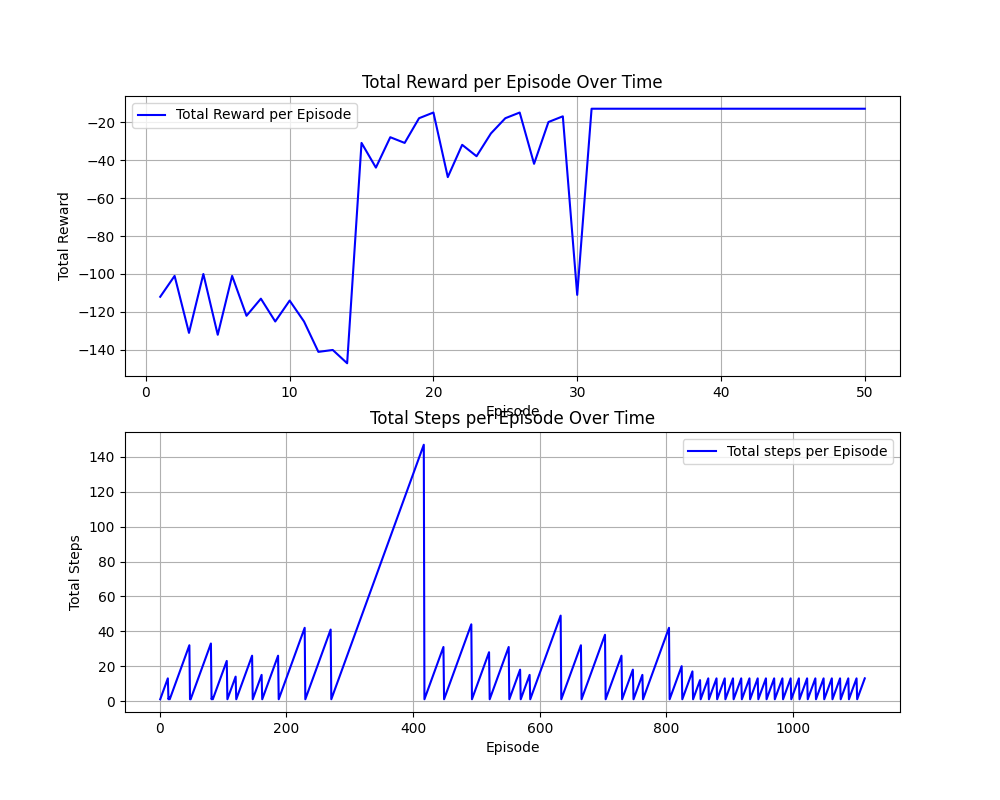
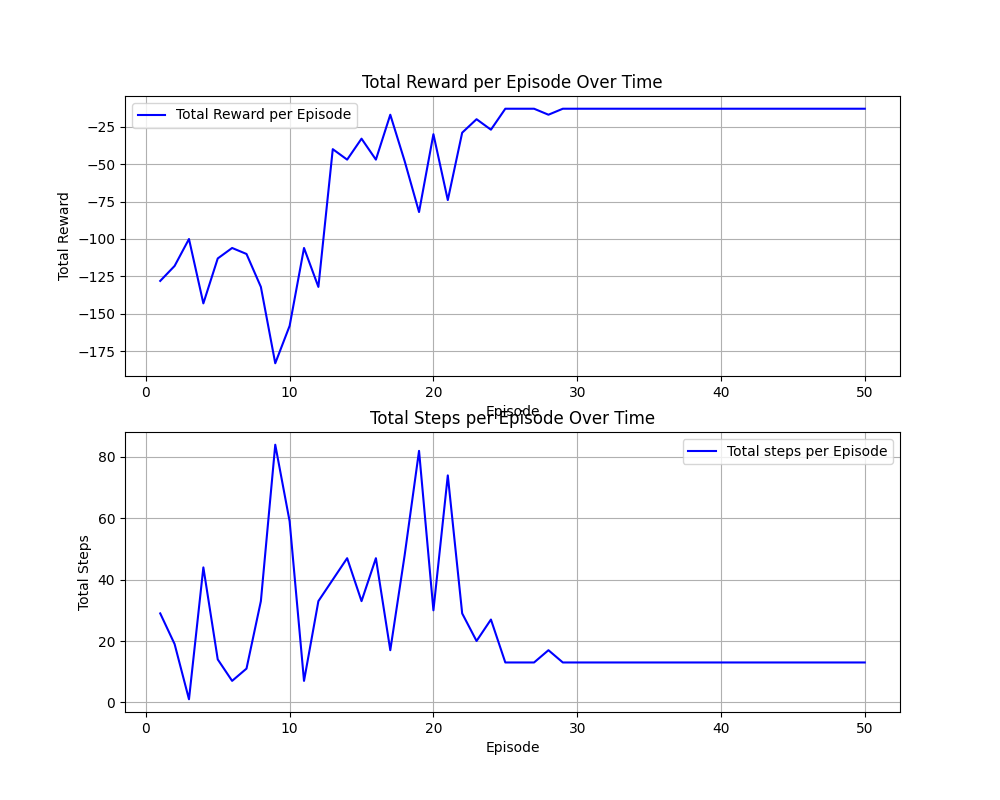
correction

diff --git a/ndum0003_lab3_qlearning_rl.py b/ndum0003_lab3_qlearning_rl.py
@@ -60,8 +60,6 @@ for i in range(episodes):
         # count steps to finish game
         steps += 1
 
-        # add steps to array for plotting
-        steps_per_episode.append(steps)
 
         # act randomly sometimes to allow exploration
         if np.random.uniform() < epsilon:
@@ -85,6 +83,10 @@ for i in range(episodes):
 
         #total reward
         total_reward += reward
+    
+    # add steps to array for plotting
+    steps_per_episode.append(steps)
+    # add rewards to array for plotting
     rewards_per_episode.append(total_reward)
 
     # The more we learn, the less we take random actions
